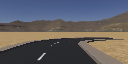
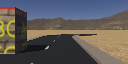
Adicionando calibragem da camera

diff --git a/Carro_Autonomo/veiculo_autonomo.py b/Carro_Autonomo/veiculo_autonomo.py
@@ -7,6 +7,9 @@ from datetime import datetime
 import cv2
 import matplotlib.pyplot as plt
 
+# Mexendo no matplotlib
+#%matplotlib qt5
+
 
 # Definindo o tempo de atualização da tela
 TIME_STEP = 10
@@ -187,7 +190,7 @@ def PID_correcao_angulo(PID):
 
 while robot.step(TIME_STEP) != -1:
 
-    set_speed(1)
+    set_speed(0)
 
     # Recebendo os valores da bússola
     valuesCompass = compass.getValues()
@@ -213,11 +216,28 @@ while robot.step(TIME_STEP) != -1:
     ultimaMedida = bearing
     PID = proporcional + integral + derivativo
 
-    PID_correcao_angulo(PID)
+    #PID_correcao_angulo(PID)
 
-    img = leitura_camera(camera)
+    image = leitura_camera(camera)
 
-    cv2.imshow("camera1", img)
+    w = image.shape[1]
+    h = image.shape[0]
+
+    src = np.float32([[60, h], [210, h], [160, 85], [100, 85]])
+    #dst = np.float32([[0, 0], [0, h - 1], [w-1, h-1], [w-1, 0]])
+    dst = np.float32([[0, h-1], [w - 1, h - 1], [w - 1, 0], [0, 0]])
+
+    M = cv2.getPerspectiveTransform(src, dst)
+    invM = cv2.getPerspectiveTransform(dst, src)
+
+    warped = cv2.warpPerspective(image, M, (image.shape[1], image.shape[0]), flags=cv2.INTER_LINEAR)
+
+    img_copy = np.copy(image)
+    img_copy = cv2.cvtColor(img_copy, cv2.COLOR_BGR2RGB)
+    plt.imshow(img_copy)
+    #plt.show()
+
+    cv2.imshow("camera1", warped)
 
 
 
